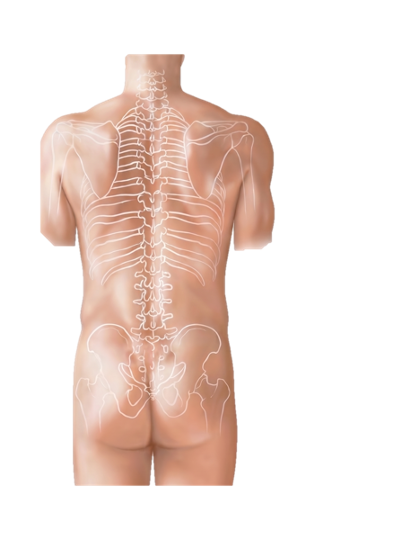
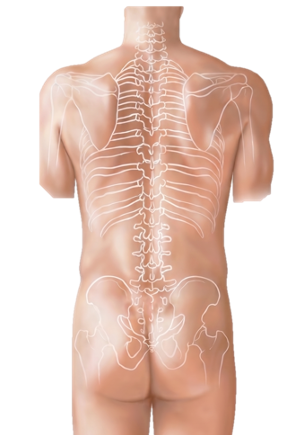
Enlarge vertebra-cut image, remove old crop offset  - Remove negative margins (were for old Vertebra.png white border) - flex:2 so image column takes twice the space of side columns - maxHeight fills most of the viewport height - Bump SW to v67

diff --git a/index.html b/index.html
@@ -4720,15 +4720,13 @@ function VertebralRibGame({ onBack }) {
           </div>
         </div>
 
-        {/* Centre — Anatomy image, cropped to just the figure */}
-        <div style={{flex:1,minWidth:0,
+        {/* Centre — Anatomy image */}
+        <div style={{flex:2,minWidth:0,
           borderRadius:10,overflow:'hidden',
           boxShadow:'0 2px 12px rgba(0,0,0,0.06)'}}>
-          {/* Crop wrapper — clips white border around the man; lines live here so % matches image */}
           <div style={{
             position:'relative',
             overflow:'hidden',
-            margin: '0 -12% -6% -12%',
             background: 'transparent',
           }}>
             <img
@@ -4736,6 +4734,8 @@ function VertebralRibGame({ onBack }) {
               alt="Vertebral column and ribs — posterior view"
               style={{
                 width:'100%', display:'block',
+                maxHeight:'calc(100vh - 180px)',
+                objectFit:'contain',
                 filter:'grayscale(1) contrast(1.4) brightness(1.0)',
               }}
             />

diff --git a/sw.js b/sw.js
@@ -5,7 +5,7 @@
    - Cache-first strategy for all GET requests
    ============================================================ */
 
-const CACHE_NAME = 'study-buddy-v66';
+const CACHE_NAME = 'study-buddy-v68';
 
 /* All local files to pre-cache on install */
 const LOCAL_ASSETS = [
